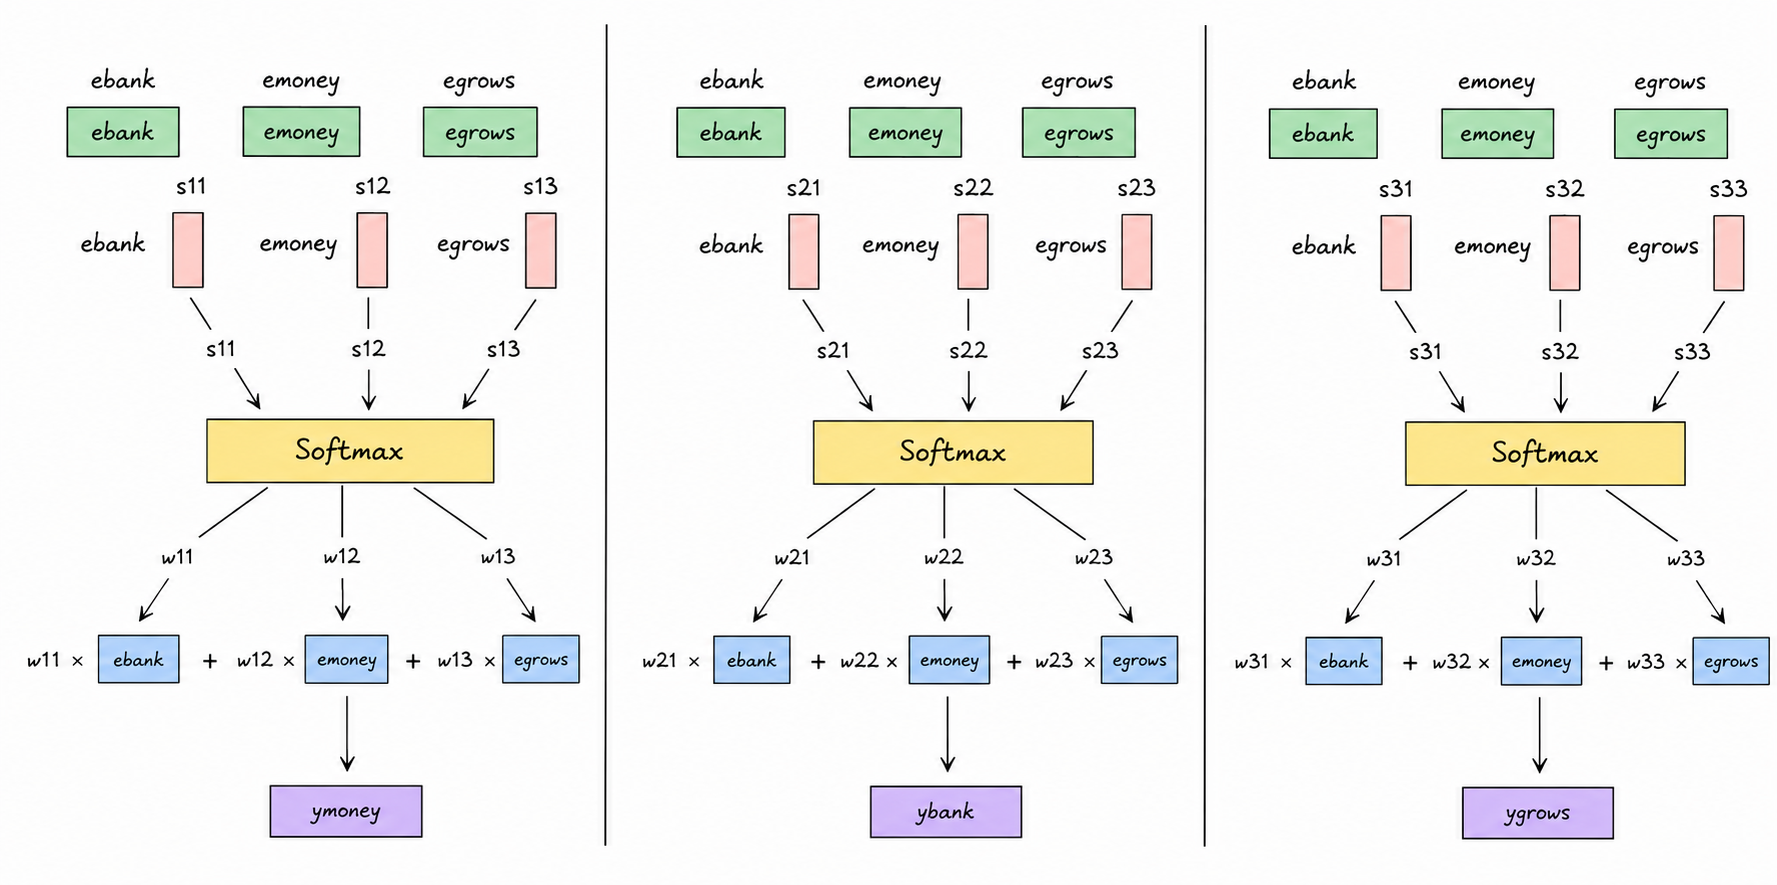
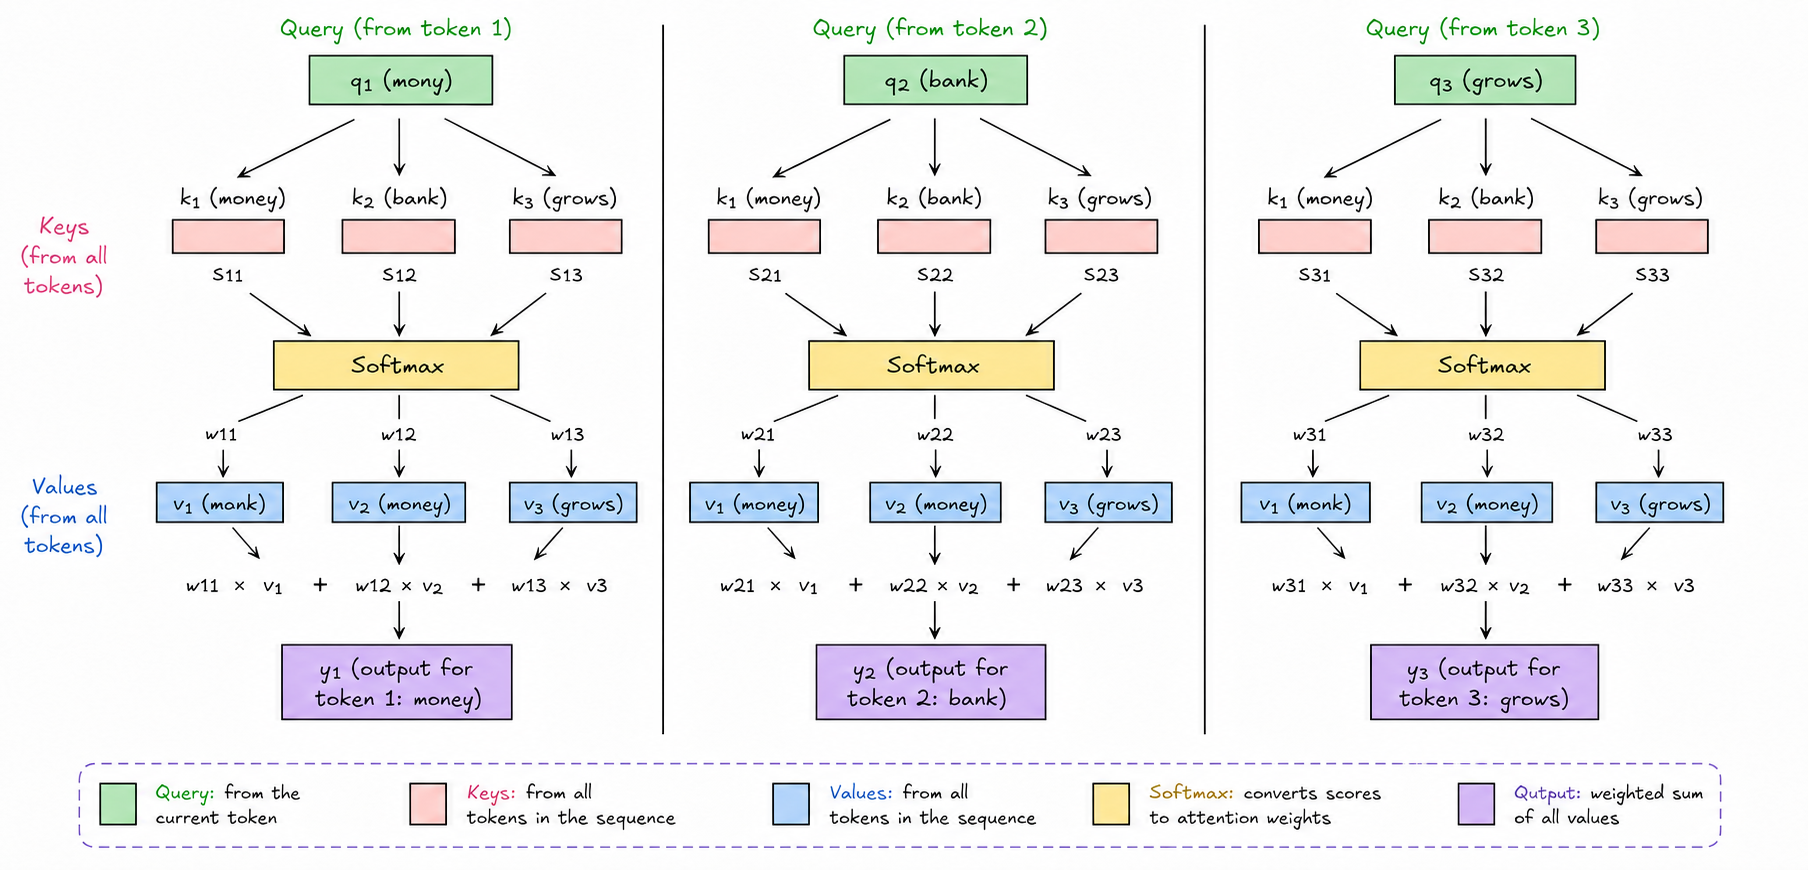
Fix issues in blog

diff --git a/src/content/writings/positional_encoding_explained.md b/src/content/writings/positional_encoding_explained.md
@@ -47,7 +47,7 @@ But this parallelism comes with a trade-off.
 
 Because self-attention processes all tokens in parallel, it has no built-in notion of order. By itself, it can model how tokens relate to one another, but it has no idea which token came first, which came later, or how far apart two tokens were in the original sequence.
 
-We can make that statement precise by saying that self-attention without positional information is **permutation-equivariant**. If we write the self-attention block as a function \(f\), let \(X\) denote the input sequence, and let $\pi$ denote any permutation (that is, any reordering) of the tokens, then:
+We can make that statement precise by saying that self-attention without positional information is **permutation-equivariant**. If we write the self-attention block as a function $f$, let $X$ denote the input sequence, and let $\pi$ denote any permutation (that is, any reordering) of the tokens, then:
 
 $$
 f(\pi X) = \pi f(X)